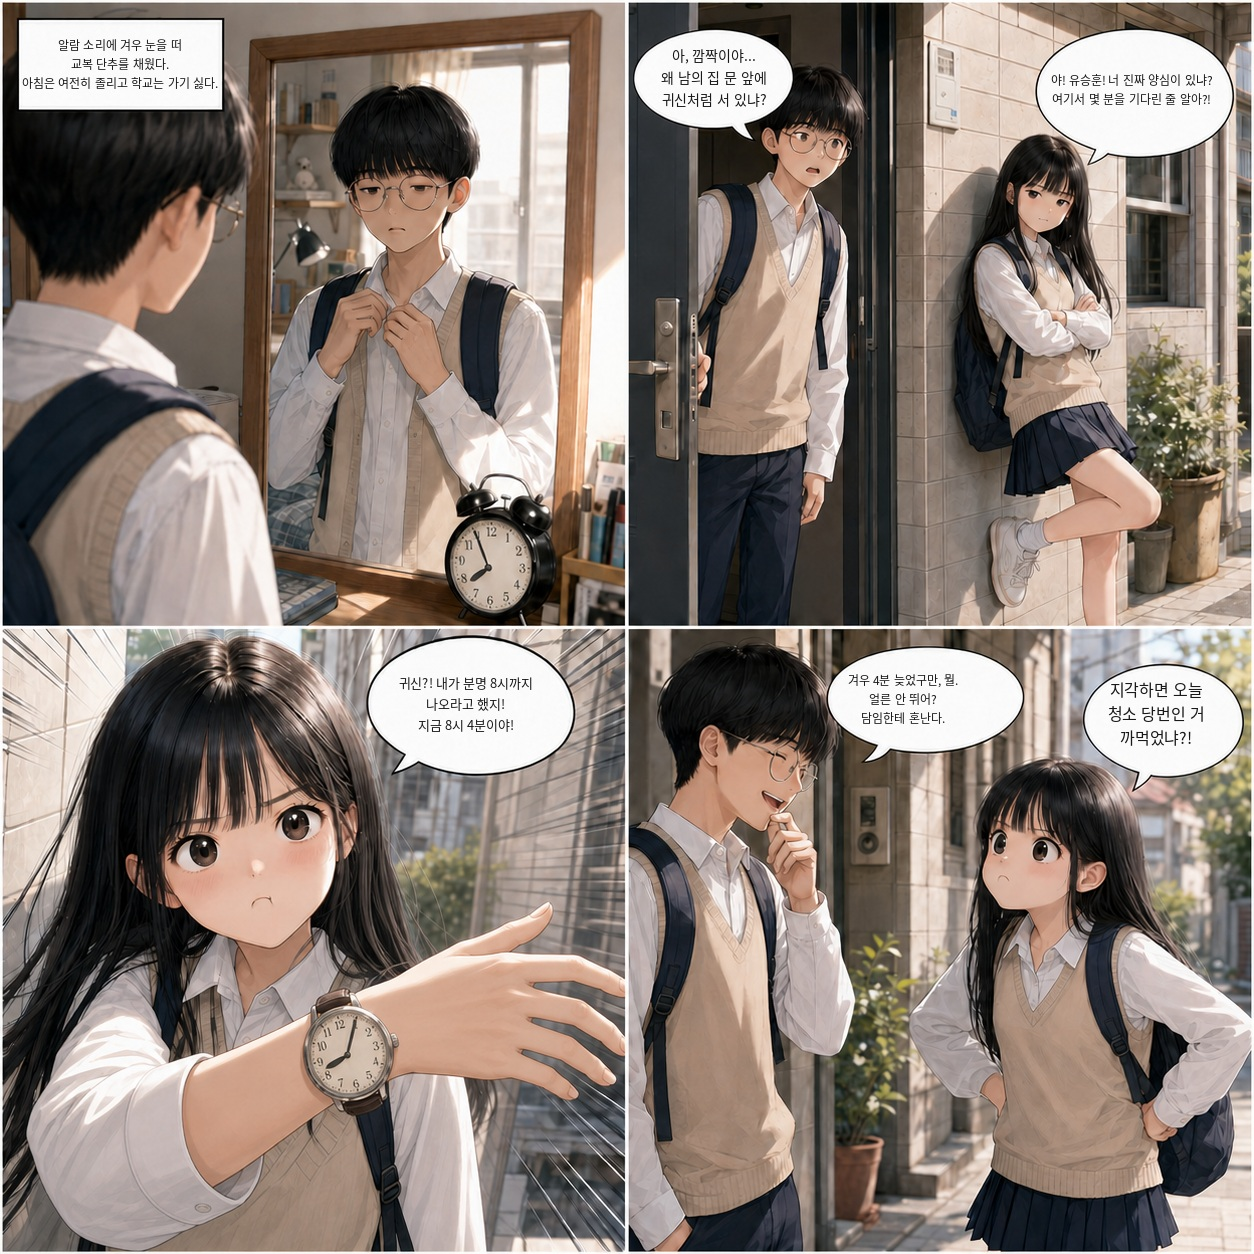
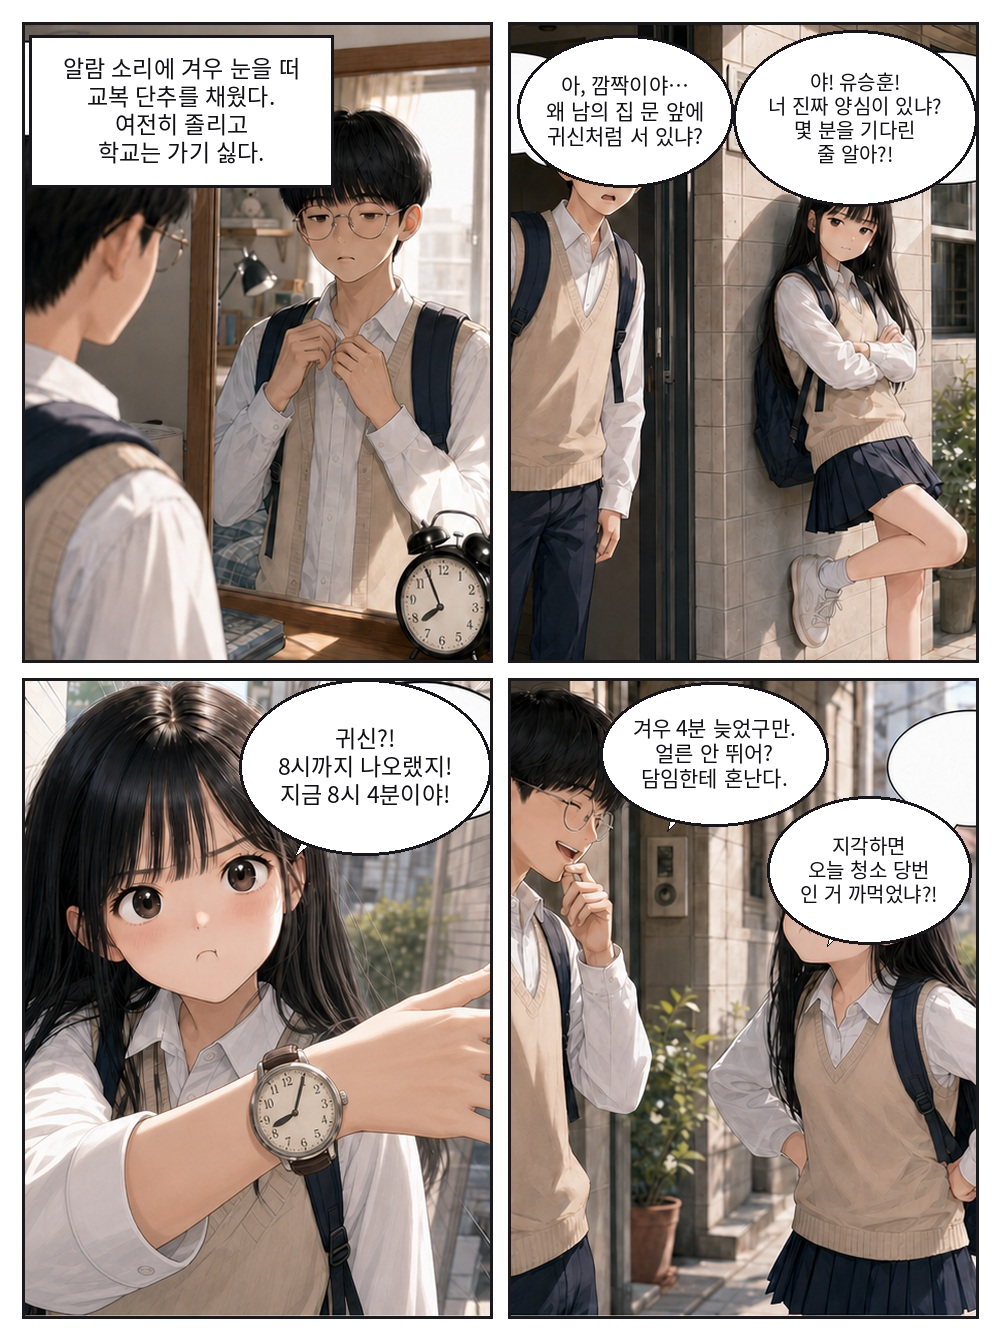
comic: replace pages 1-2 with tall tankobon-ratio large-bubble art (rev 3)

diff --git a/comic/index.html b/comic/index.html
@@ -392,13 +392,13 @@ const BUILTIN_BOOKS = [
     description: "아침 8시 4분, 지각 위기의 등굣길. 어릴 적부터 함께 걷던 두 사람의 하루가 시작된다.",
     cover: "images/cover.jpg",
     pages: [
-      {src:"images/p01.jpg", label:"1페이지", thumb:"images/thumbs/p01.jpg"},
-      {src:"images/p02.jpg", label:"2페이지", thumb:"images/thumbs/p02.jpg"},
+      {src:"images/p01.jpg?v=3", label:"1페이지", thumb:"images/thumbs/p01.jpg?v=3"},
+      {src:"images/p02.jpg?v=3", label:"2페이지", thumb:"images/thumbs/p02.jpg?v=3"},
     ]
   },
 ];
 /* 내장책 내용이 바뀌면 rev를 올린다 → 예전 페이지 기준 독서 진행률은 자동으로 새로 시작 */
-const BUILTIN_REV = { "science-lab": 2 };
+const BUILTIN_REV = { "science-lab": 3 };
 function bookRev(b){ return b && b.builtin ? (BUILTIN_REV[b.id] || 0) : 0; }
 function getProg(b){
   if (!b) return 0;
